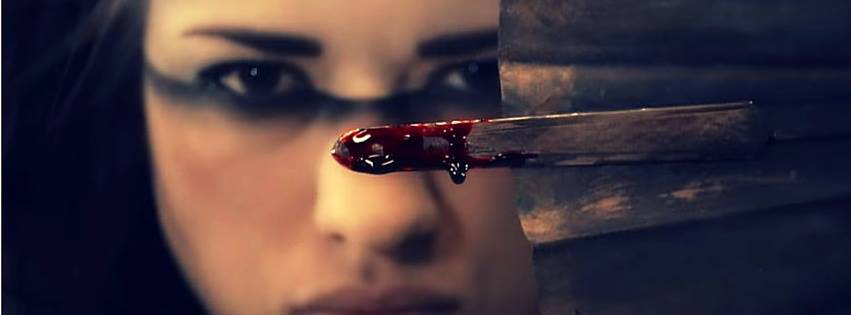
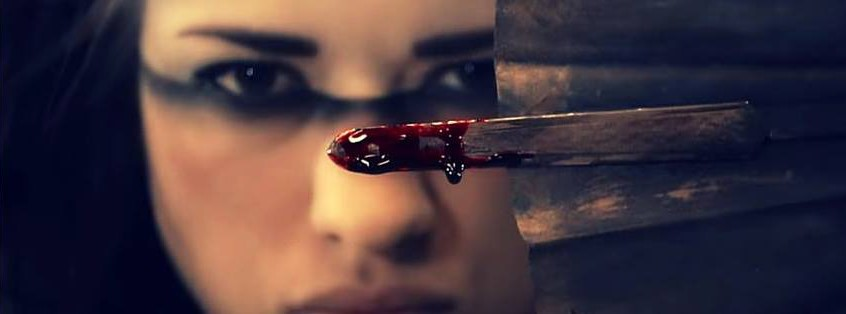
navigation fixes

diff --git a/src/css/style.css b/src/css/style.css
@@ -34,7 +34,6 @@ button {
   justify-content: center;
   background-image: url(../images/main.jpg);
   background-size: cover;
-  background-position-x: -2px;
   height: 60vh; }
   .header-content h1 {
     margin: 5vh;
@@ -59,7 +58,7 @@ nav {
         flex-direction: row;
         align-items: center;
         justify-content: center; }
-        nav ul .icon {
+        nav ul button.icon {
           display: none; } }
     nav ul button.icon {
       border: none;
@@ -80,6 +79,9 @@ nav {
         font-size: 1.2rem;
         font-weight: 600; }
 
+.burger-menu ul {
+  align-items: flex-start; }
+
 .burger-menu li.menu-item {
   display: none; }
 
@@ -88,3 +90,9 @@ nav {
 
 .burger-menu button.open {
   display: block; }
+
+@media (min-width: 768px) {
+  .burger-menu button.icon {
+    display: none; }
+  .burger-menu li.menu-item {
+    display: block; } }

diff --git a/src/scss/style.scss b/src/scss/style.scss
@@ -51,7 +51,6 @@ button {
     @include flexCenter;
     background-image: url(../images/main.jpg);
     background-size: cover;
-    background-position-x: -2px;
     height: 60vh;
 
     h1 {
@@ -73,7 +72,7 @@ nav {
 
         @include for-size(md) {
             @include flexCenterRow;
-            .icon {
+            button.icon {
                 display: none;
             }
         }
@@ -105,6 +104,9 @@ nav {
 }
 
 .burger-menu {
+    ul{
+        align-items: flex-start;
+    }
     li.menu-item{
         display: none;
     }
@@ -113,5 +115,13 @@ nav {
     }
     button.open {
         display: block;
+    }
+    @include for-size(md){
+        button.icon{
+            display: none;
+        }
+        li.menu-item{
+            display: block;
+        }
     }
 }

diff --git a/src/index.html b/src/index.html
@@ -11,7 +11,7 @@
 <body>
   <header>
     <nav>
-      <div class="burger-menu menu-wrapper">
+      <div class="menu-wrapper">
       <ul>
         <button class="icon open"><i class="fas fa-bars"></i></li></button>
         <button class="icon close"><i class="fas fa-times"></i></button>

diff --git a/src/scripts/main.js b/src/scripts/main.js
@@ -7,4 +7,4 @@ const changeMenu = () => {
 };
 
 open.addEventListener("click", changeMenu);
-close.addEventListener("click", changeMenu)
+close.addEventListener("click", changeMenu);
